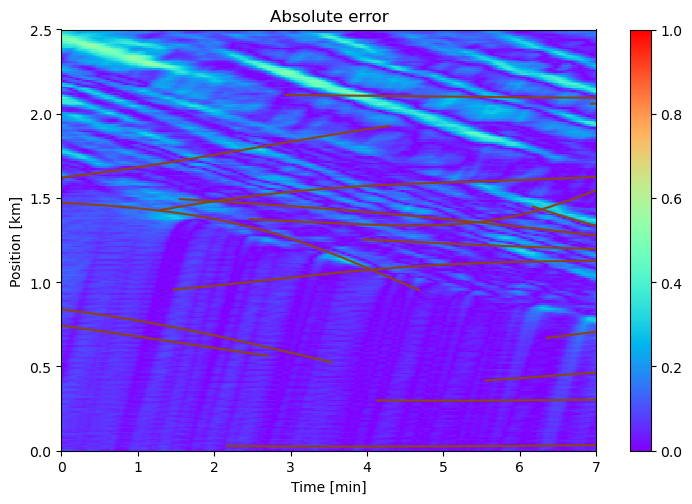
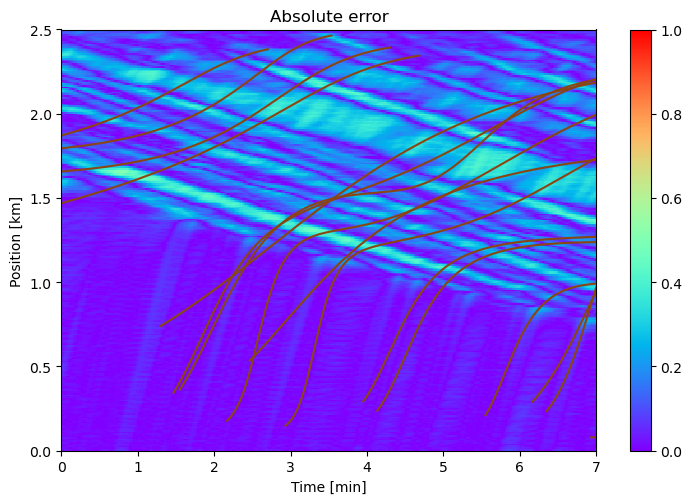
fixed training of trajectory

diff --git a/neural_network_pytorch.py b/neural_network_pytorch.py
@@ -294,7 +294,7 @@ class NeuralNetwork(nn.Module):
         # Predictions
         u_pred = [self.net_u(self.t[i], self.x[i]) - self.noise_rho_bar[i] for i in range(len(self.t))] # list of tensors, since each tensor has a different shape
         v_pred = [self.net_v(self.u[i]) for i in range(len(self.t))]
-        # x_pred = [self.net_x_pv(t[i], i) for i in range(len(t))]  # data points or physics points?
+        x_pred = [self.net_x_pv(self.t[i], i) for i in range(len(self.t))]  # data points or physics points?
         # x_pred0 = self.net_x_pv(t[0], 0)
         # x_pred = torch.stack([self.net_x_pv(t_g[i], i) for i in range(len(t_g))]) # data points or physics points?
 
@@ -303,8 +303,8 @@ class NeuralNetwork(nn.Module):
         MSEu1 = torch.mean(torch.stack(MSEu1_list))  # MSE for Adjusted Density Predictions (rho_pred - rho_true - noise)^2
 
         # # MSEu2_l
-        # MSEtrajectories_list = [F.mse_loss(x[i], x_pred[i]) for i in range(len(x))]
-        # MSEtrajectories = torch.mean(torch.stack(MSEtrajectories_list))  # MSE for Trajectories Predictions (x_pred - x_true)^2
+        MSEtrajectories_list = [F.mse_loss(self.x[i], x_pred[i]) for i in range(len(self.x))]
+        MSEtrajectories = torch.mean(torch.stack(MSEtrajectories_list))  # MSE for Trajectories Predictions (x_pred - x_true)^2
         # MSEtrajectories0 = F.mse_loss(x[0].squeeze(0), x_pred0.squeeze(0))  # MSE for Trajectories Predictions (x_pred - x_true)^2
 
 
@@ -316,7 +316,7 @@ class NeuralNetwork(nn.Module):
 
         return {
             "MSEu1": MSEu1,
-            # "MSEtrajectories": MSEtrajectories,
+            "MSEtrajectories": MSEtrajectories,
             # "MSEtrajectories": MSEtrajectories0,
             "MSEv1": MSEv1,
             "MSEv2": MSEv2
@@ -335,7 +335,7 @@ class NeuralNetwork(nn.Module):
             # "MSEf": MSEf,
             # "MSEg": MSEg,
             "MSEv": MSEv,
-            "MSEgamma": MSEgamma
+            # "MSEgamma": MSEgamma
         }
 
         
@@ -365,15 +365,16 @@ class NeuralNetwork(nn.Module):
         # all_params = list(self.density_network.parameters()) + list(self.velocity_network.parameters())
         optimizer = optim.Adam(self.parameters(), lr=0.005)
         optimizer = optim.Adam([
-            {'params': self.parameters()},  # Parameters of sub-modules
-            # {'params': [self.gamma_var]},  # Explicitly add gamma_var
-            {'params': self.noise_rho_bar}  # Explicitly add all tensors in noise_rho_bar
+            {'params': self.density_network.parameters()},
+            {'params': self.velocity_network.parameters()},
+            {'params': [p for traj_net in self.trajectories_networks for p in traj_net.parameters()]}, # added this way sucht that it is optimized as well
+            {'params': self.noise_rho_bar}  # Assuming noise_rho_bar is a list of parameters/tensors
         ], lr=0.005)
         # optimizer = optim.Adam(list(self.parameters()) + [self.gamma_var] + [*self.noise_rho_bar], lr=0.005)
         # optimizer = optim.LBFGS(self.parameters(), lr=0.005)
        
         # Train the model
-        self.N_epochs = 4000
+        self.N_epochs = 400
         # self.plot_density_loss_on_trajectory()
         with tqdm(total=self.N_epochs, desc="Training Progress") as pbar:
             for epoch in range(self.N_epochs):

diff --git a/sumo_data_visualization.py b/sumo_data_visualization.py
@@ -60,8 +60,8 @@ t_f_train = X_f_train[:, 1:2] # time data points for the PDE [500, 1]
 
 
 # sumo.plotProbeVehicles()
-# sumo.plotProbeFD()
-# plt.show()
+sumo.plotProbeFD()
+plt.show()
 
 # sumo.plotDensityMovieHeatmap()
 # sumo.plotProbes()
